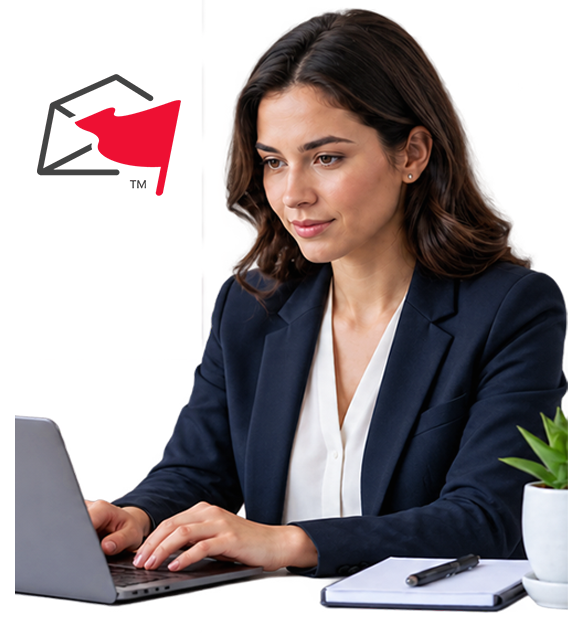
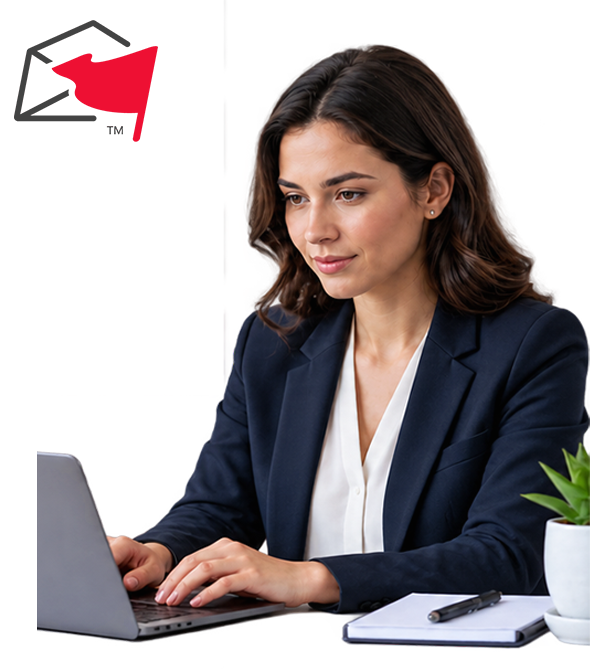
Help/SiteLayout: drop edge boxes on compare pane, hide header on join iframes
- Help: remove the two small edge placeholder boxes on the
  PhishFlagger.org / Kickstarter compare pane, and enlarge the two
  remaining cards to fill the pane (220px -> 340px tall).
- SiteLayout: hide the site header on /join-free and /join-corporate
  (both embed a third-party iframe form).
- Updated hero v3 source image.

Claude-Session: https://claude.ai/code/session_01MCeC7yDU1cCxAL1RSJd6VL

diff --git a/src/pages/Help.jsx b/src/pages/Help.jsx
@@ -30,45 +30,38 @@ export default function Help() {
       {/* ===== Pane 1 — Org / Kickstarter placeholder images ===== */}
       <section className="w-full px-4 pt-14 pb-10 sm:px-6 sm:pt-20 sm:pb-14">
         <div className="mx-auto w-full">
-          <div className="mx-auto flex w-full flex-col items-stretch justify-center gap-6 sm:gap-8 lg:flex-row lg:flex-nowrap lg:items-center lg:justify-center">
-            {/* Edge placeholder */}
-            <div className="hidden h-full items-center justify-center lg:flex lg:flex-[0.4]">
-              <div className="flex h-[220px] w-full items-center justify-center rounded-2xl border-2 border-black bg-white">
-                <ImagePlaceholderIcon />
-              </div>
-            </div>
-
+          <div className="mx-auto flex w-full max-w-content flex-col items-stretch justify-center gap-6 sm:gap-8 lg:flex-row lg:flex-nowrap lg:items-center lg:justify-center">
             {PLACEHOLDER_PANE.map((item) =>
               item.title === "PhishFlagger.org" ? (
                 <Link
                   key={item.title}
                   to="/phishflagger-org"
-                  className="flex flex-col items-center transition-transform duration-200 hover:scale-[1.02] lg:flex-[1.6]"
+                  className="flex flex-1 flex-col items-center transition-transform duration-200 hover:scale-[1.02]"
                 >
                   <h2 className="mb-4 text-center text-[20px] font-bold tracking-tight text-ink sm:text-[24px]">
                     {item.title}
                   </h2>
-                  <div className="flex h-[220px] w-full flex-col justify-center gap-2 rounded-2xl border-2 border-black bg-white px-6 py-5 text-left sm:px-8">
-                    <h3 className="text-[15px] font-semibold leading-snug tracking-tight text-ink sm:text-[17px]">
+                  <div className="flex h-[340px] w-full flex-col justify-center gap-3 rounded-2xl border-2 border-black bg-white px-8 py-6 text-left sm:px-10">
+                    <h3 className="text-[19px] font-semibold leading-snug tracking-tight text-ink sm:text-[22px]">
                       Our Community of participants who want to help
                     </h3>
-                    <p className="line-clamp-4 text-[12px] leading-[1.6] text-ink-muted sm:text-[13px]">
+                    <p className="line-clamp-5 text-[14px] leading-[1.6] text-ink-muted sm:text-[15px]">
                       <BrandInline /> prevents Phishing cybercrime. Our
                       mission is to make emails safer. We bring together
                       developers, email forwarders and consumers so everyone
                       can identify malicious phishing attempts.
                     </p>
-                    <span className="mt-1 inline-flex items-center gap-1 text-[12px] font-semibold text-brand">
+                    <span className="mt-1 inline-flex items-center gap-1 text-[14px] font-semibold text-brand">
                       Visit PhishFlagger.org →
                     </span>
                   </div>
                 </Link>
               ) : (
-                <div key={item.title} className="flex flex-col items-center lg:flex-[1.6]">
+                <div key={item.title} className="flex flex-1 flex-col items-center">
                   <h2 className="mb-4 text-center text-[20px] font-bold tracking-tight text-ink sm:text-[24px]">
                     {item.title}
                   </h2>
-                  <div className="flex h-[220px] w-full items-center justify-center rounded-2xl border-2 border-black bg-white">
+                  <div className="flex h-[340px] w-full items-center justify-center rounded-2xl border-2 border-black bg-white">
                     <ImagePlaceholderIcon />
                   </div>
                   <p className="mt-3 text-center text-[13px] text-ink-muted sm:text-[14px]">
@@ -77,13 +70,6 @@ export default function Help() {
                 </div>
               )
             )}
-
-            {/* Edge placeholder */}
-            <div className="hidden h-full items-center justify-center lg:flex lg:flex-[0.4]">
-              <div className="flex h-[220px] w-full items-center justify-center rounded-2xl border-2 border-black bg-white">
-                <ImagePlaceholderIcon />
-              </div>
-            </div>
           </div>
         </div>
       </section>

diff --git a/src/components/layout/SiteLayout.jsx b/src/components/layout/SiteLayout.jsx
@@ -45,10 +45,11 @@ export default function SiteLayout() {
   }, [navigationType, scrollKey]);
 
   const hideFooter = pathname === "/about/faq";
+  const hideHeader = pathname === "/join-free" || pathname === "/join-corporate";
 
   return (
     <div className="flex min-h-screen flex-col">
-      <Header />
+      {!hideHeader && <Header />}
       <main id="main" className="flex-1">
         <Outlet />
       </main>
